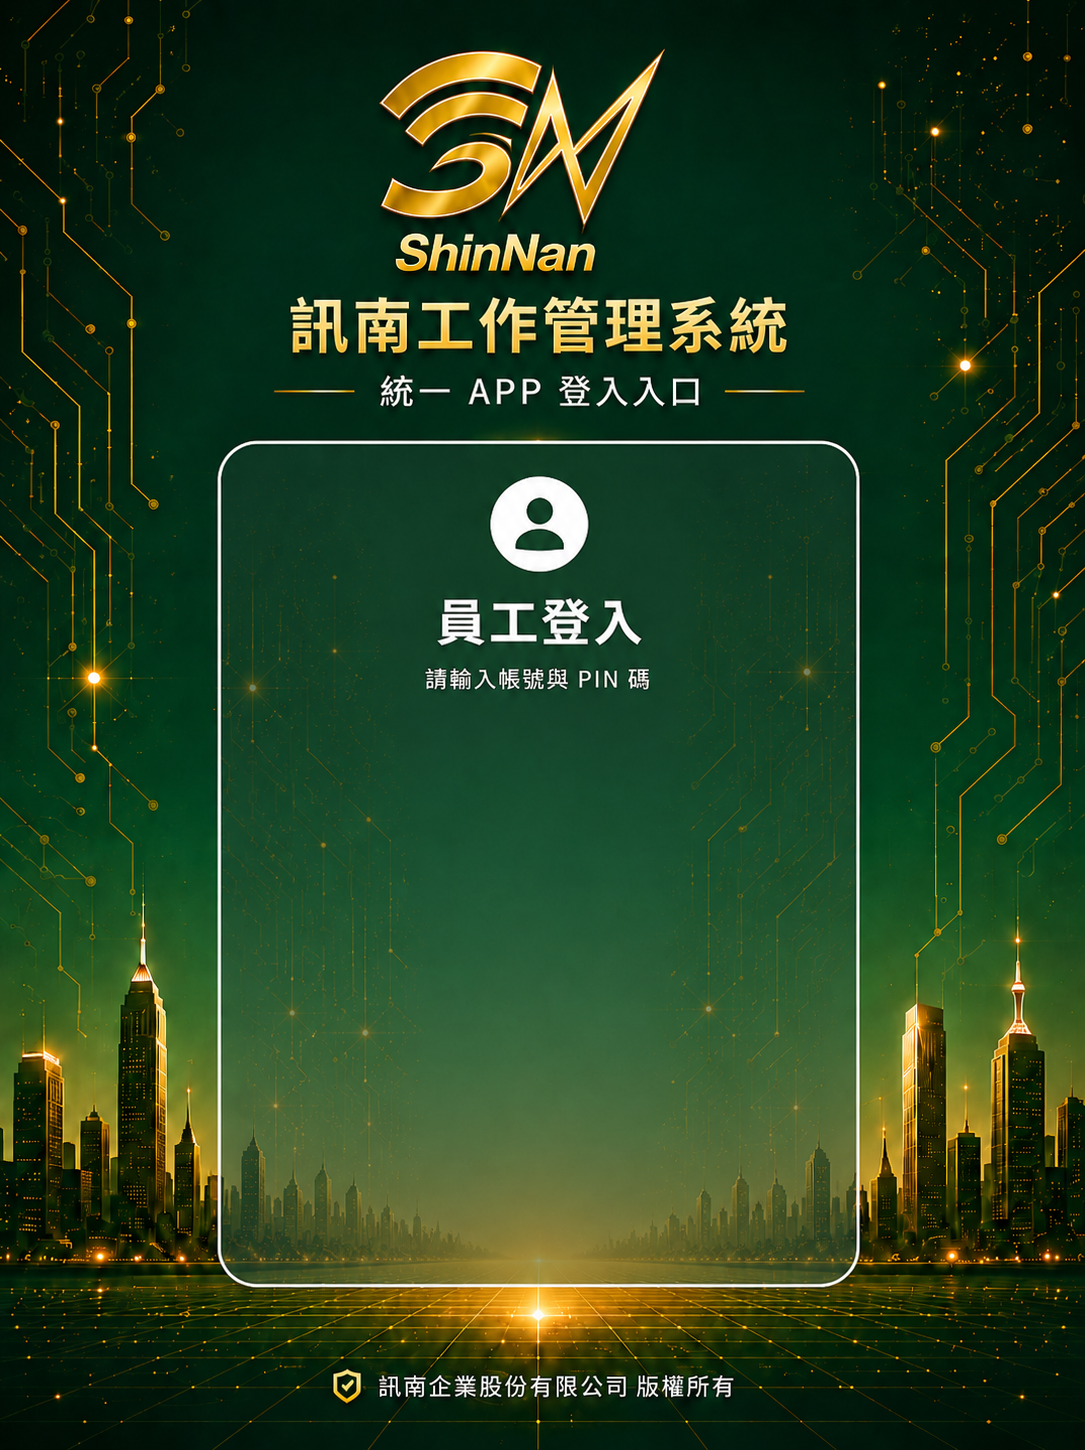
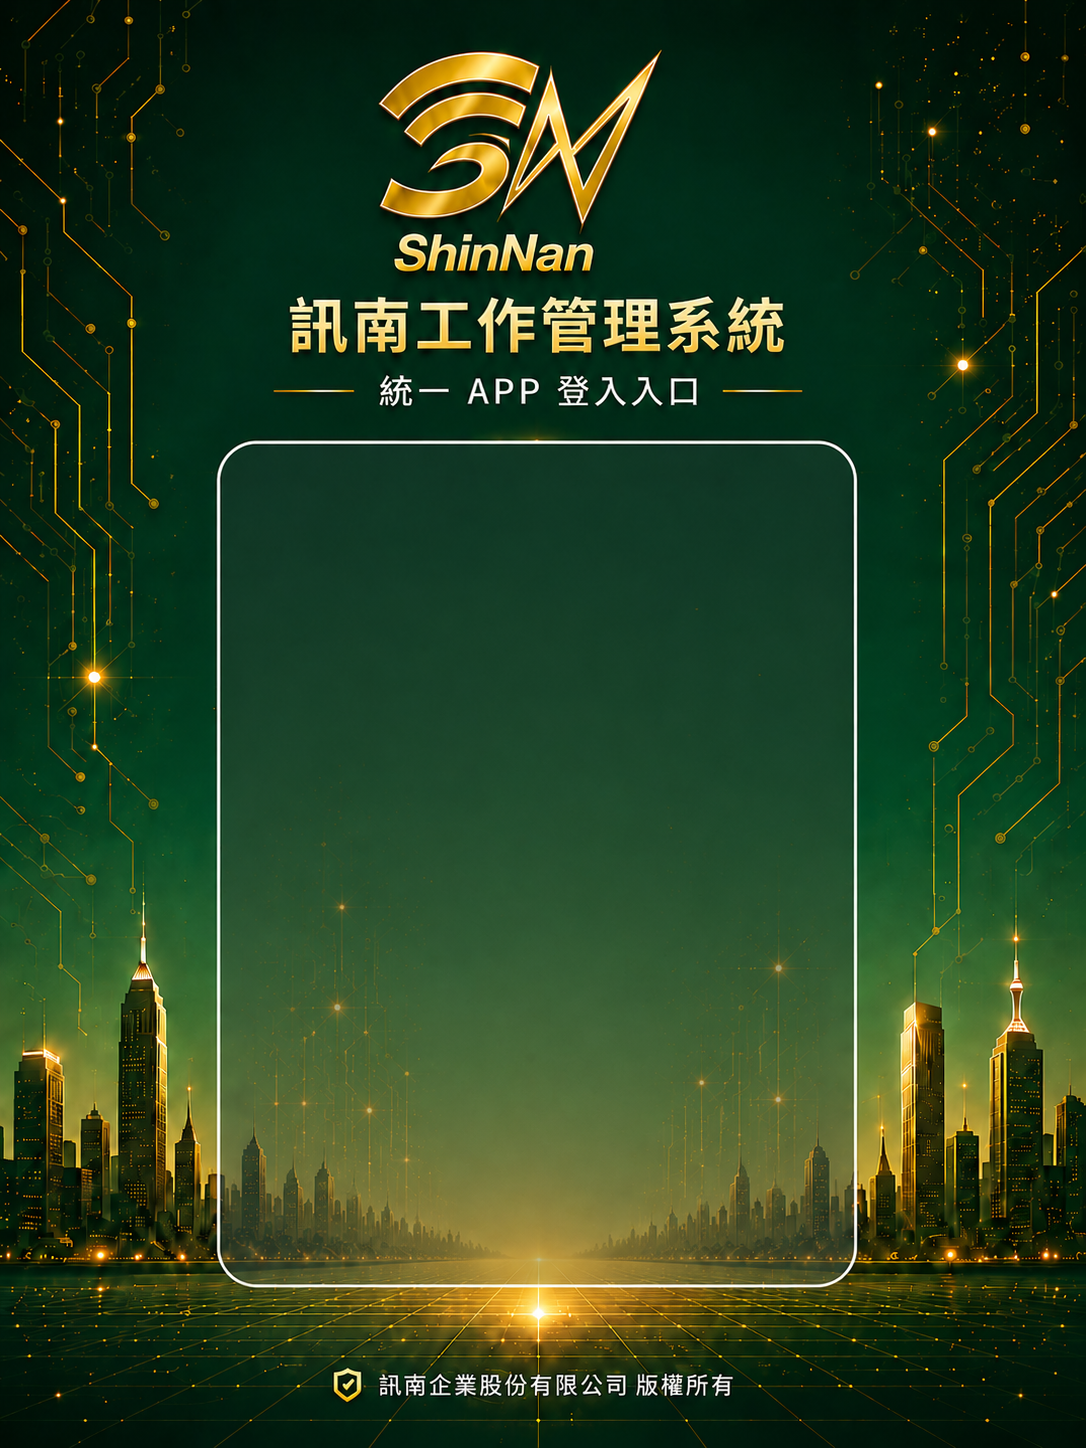
cl17n: mobile login new clean bg, inputs float at 50% position

diff --git a/app/routes/employee_auth.py b/app/routes/employee_auth.py
@@ -579,7 +579,7 @@ def _employee_login_page_mobile(error: str = "", next_url: str = "/app"):
       position: absolute;
       z-index: 1;
       /* 框框在圖片 26.2%~47.2%，圖片高 = 100vw * 1.337 */
-      top: calc(100vw * 1.337 * 0.285);
+      top: calc(100vw * 1.337 * 0.50);
       left: 50%;
       transform: translateX(-50%);
       width: min(72vw, 300px);
@@ -587,14 +587,7 @@ def _employee_login_page_mobile(error: str = "", next_url: str = "/app"):
       flex-direction: column;
       gap: 10px;
     }}
-    .form-title {{
-      text-align: center;
-      color: #ffffff;
-      font-size: 20px;
-      font-weight: 1000;
-      text-shadow: 0 2px 8px rgba(0,0,0,.8);
-      margin-bottom: 4px;
-    }}
+    .form-title {{ display: none; }}
     .input-wrap {{
       position: relative;
       display: flex;
